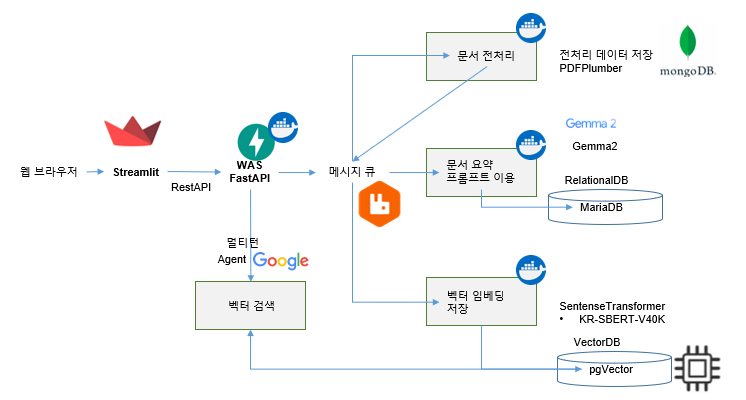
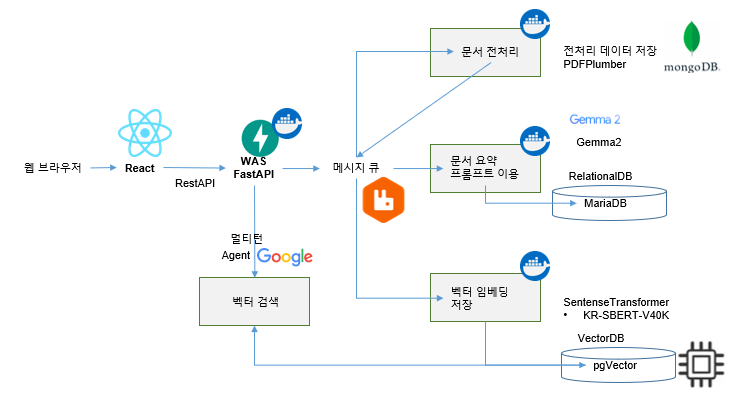
사용 방법 및 기초 설정

diff --git a/README.md b/README.md
@@ -14,10 +14,6 @@
 
 ![docker-resource.png](features/docker-resource.png)
 
-### 예제 화면 이에요.
-
-![openary-streamlit-chat.png](features/openary-streamlit-chat.png)
-
 ## 이렇게 동작 시키면 되요
 
 #### 이 레파지토리를 다운로드 받으세요
@@ -42,6 +38,10 @@ langmodel:
   ollama:
     address: "http://ollama:11434"
     chat_model: "gemma2:2b"
+
+  huggingface:
+    model: "google/gemma-2-9b-it"
+    api_key: "Your Hugginface API KEY"
 ```
 
 #### ollama chat 모델을 바꾸시고 싶으시면 모델명만 바꾸시고 컨테이너를 다시 실행 시키시면 자동으로 다운로드 받아요.
@@ -56,6 +56,10 @@ docker-compose -f .\docker-compose.yaml up -d
 WEB 디버그시
 localhost에서 nginx 실행
 nginx의 nginx.conf는 nginx/nginx.local.dev.conf를 활용
+nginx 실행 (E:\1.1.nginx 에 nginx가 있을 경우)
+이때. nginx\의 nginx.local.dev.conf를 E:\1.1.nginx\nginx\conf\nginx.conf에 overwrite하여 다음 명령을 수행합니다.
+E:\1.1.nginx> .\nginx.exe
+
 docker-compose -f .\docker-compose.dev.noweb.yaml up -d
 
 CHATAPI 디버그용
@@ -68,24 +72,57 @@ docker-compose -f .\docker-compose.dev.yaml up -d
 문서 임베딩, LLM과의 대화는 ollama gemma2 컨테이너에서 수행해 줍니다
 ````
 
-주요 서비스 주소
+정상적으로 모든 컨테이너가 생성되면 Localhost로 접속하면 되요.
+
+```
+chatapp\npm run windev
+```
+
+- login <br>
+
+# ![login.png](features/login.png)
+
+- 사용자 추가
+
+# ![add_user.png](features/add_user.png)
+
+- LLM 프롬프트 및 전체
+
+# ![main_chat.png](features/main_chat.png)
+
+- 파일 등록
+
+# ![file_upload.png](features/file_upload.png)
+
+- 문서 분석
+
+# ![doc_ai_process.png](features/doc_ai_process.png)
+
+- 프롬프트 실행
+
+# ![prompt_input.png](features/prompt_input.png)
+
+- LLM 답변 보기기
+
+# ![prompt_result.png](features/prompt_result.png)
+
+## 주요 서비스 주소
 
 ### 사용자 관리 DOC API
 
-http://localhost:9001/api-docs
+- http://localhost:9001/api-docs
 
 ### 대화 관리 DOC API
 
 - http://localhost:9000/api/docs
-- ### Streamlit을 이용한 지식 조회
-- http://localhost:9002
--
 
 ### Rabbitmq 관리 대시보드
 
 ID : genai
 PASSWORD : openary
-http://localhost:15672/
 
-세부 사항은 openary-howto.pdf를 참조하세요<br>
-[openary-howto.pdf](short_doc/openary-howto.pdf)
+- http://localhost:15672/
+
+### Live Demo
+
+- http://openary.io/chat
